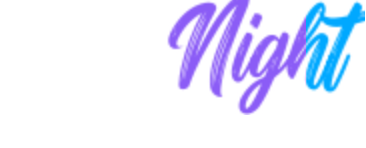
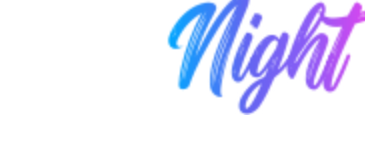
fix: remove hero overlays, center wordmark, neon Night gradient, Buy/Rent buttons+hero
1. Blog/About/Contact heroes: removed the bg-foreground/80 overlay that
   caused white bleed. Now uses solid bg-foreground + hero-cars.png at
   opacity-20 (was opacity-30). Clean dark background, no white overlay.
2. Wordmark: increased translate-y from 3px to 4px to move the logo
   slightly down so it's vertically centered in the navbar.
3. Wordmark 'Night': regenerated both PNGs to use the EXACT neon button
   gradient (linear-gradient(135deg, #00A8FF 0%, #6366F1 40%, #8B5CF6 70%,
   #D946EF 100%)) — same gradient as the Browse Cars button. Column-based
   interpolation across 'Night' so blue is on the left ('nig') and magenta
   on the right ('ht').
4. 'Buy a car' / 'Rent a car' buttons in Two marketplaces section: replaced
   btn-neon class (which only targets shadcn Buttons) with inline
   backgroundImage style so the neon gradient actually renders on <span>
   elements.
5. Buy + Rent pages: removed the breadcrumb (Home > Buy / Home > Rent).
   Redesigned both heroes to match the Plans page style: centered, with a
   badge (Buy/Rent icon), H1 with gradient-text accent, and subtitle.
   Clean from-primary/5 to-transparent gradient background.

Changed region(s): [[0.4508, 0.0, 0.7514, 0.7838], [0.8115, 0.0, 1.0, 0.6216]]

diff --git a/src/app/cars-for-rent/page.tsx b/src/app/cars-for-rent/page.tsx
@@ -109,37 +109,18 @@ export default async function CarsForRentPage({ searchParams }: PageProps) {
 
   return (
     <div className="flex flex-col">
-      {/* Hero header */}
-      <section className="border-b bg-gradient-to-b from-primary/5 to-background">
-        <div className="mx-auto max-w-7xl px-4 sm:px-6 lg:px-8 py-8 sm:py-10">
-          <Breadcrumb>
-            <BreadcrumbList>
-              <BreadcrumbItem>
-                <BreadcrumbLink asChild>
-                  <Link href="/">Home</Link>
-                </BreadcrumbLink>
-              </BreadcrumbItem>
-              <BreadcrumbSeparator />
-              <BreadcrumbItem>
-                <BreadcrumbPage>Rent</BreadcrumbPage>
-              </BreadcrumbItem>
-            </BreadcrumbList>
-          </Breadcrumb>
-
-          <h1 className="mt-3 text-3xl sm:text-4xl lg:text-5xl font-bold tracking-tight">
-            Rent your dream car for special events
+      {/* Hero — centered, matching the Plans page style */}
+      <section className="bg-gradient-to-b from-primary/5 to-transparent border-b border-border">
+        <div className="mx-auto max-w-6xl px-4 sm:px-6 lg:px-8 py-12 sm:py-16 text-center">
+          <Badge variant="outline" className="bg-primary/10 text-primary border-primary/20 mb-4">
+            <KeyRound className="h-3 w-3 mr-1" /> Rent
+          </Badge>
+          <h1 className="text-3xl sm:text-5xl font-bold tracking-tight">
+            Rent your <span className="gradient-text">dream car</span> for special events
           </h1>
-          <p className="mt-3 text-muted-foreground max-w-2xl text-sm sm:text-base">
+          <p className="mt-3 text-base sm:text-lg text-muted-foreground max-w-2xl mx-auto">
             Weddings, photoshoots, weekends, and more — filter by country, daily price, make, and availability.
           </p>
-          <div className="mt-4 flex flex-wrap items-center gap-4 text-xs sm:text-sm text-muted-foreground">
-            <span className="inline-flex items-center gap-1.5">
-              <CalendarHeart className="h-4 w-4 text-primary" /> Daily / weekly / monthly
-            </span>
-            <span className="inline-flex items-center gap-1.5">
-              <Camera className="h-4 w-4 text-primary" /> Perfect for photoshoots & events
-            </span>
-          </div>
         </div>
       </section>
 

diff --git a/src/app/cars-for-sale/page.tsx b/src/app/cars-for-sale/page.tsx
@@ -109,28 +109,17 @@ export default async function CarsForSalePage({ searchParams }: PageProps) {
 
   return (
     <div className="flex flex-col">
-      {/* Hero header */}
-      <section className="border-b bg-gradient-to-b from-primary/5 to-background">
-        <div className="mx-auto max-w-7xl px-4 sm:px-6 lg:px-8 py-8 sm:py-10">
-          <Breadcrumb>
-            <BreadcrumbList>
-              <BreadcrumbItem>
-                <BreadcrumbLink asChild>
-                  <Link href="/">Home</Link>
-                </BreadcrumbLink>
-              </BreadcrumbItem>
-              <BreadcrumbSeparator />
-              <BreadcrumbItem>
-                <BreadcrumbPage>Buy</BreadcrumbPage>
-              </BreadcrumbItem>
-            </BreadcrumbList>
-          </Breadcrumb>
-
-          <h1 className="mt-3 text-3xl sm:text-4xl lg:text-5xl font-bold tracking-tight">
-            Find the perfect car to buy
+      {/* Hero — centered, matching the Plans page style */}
+      <section className="bg-gradient-to-b from-primary/5 to-transparent border-b border-border">
+        <div className="mx-auto max-w-6xl px-4 sm:px-6 lg:px-8 py-12 sm:py-16 text-center">
+          <Badge variant="outline" className="bg-primary/10 text-primary border-primary/20 mb-4">
+            <Car className="h-3 w-3 mr-1" /> Buy
+          </Badge>
+          <h1 className="text-3xl sm:text-5xl font-bold tracking-tight">
+            Find the <span className="gradient-text">perfect car to buy</span>
           </h1>
-          <p className="mt-3 text-muted-foreground max-w-2xl text-sm sm:text-base">
-            Filter by country, price, make and more — browse verified cars for sale worldwide.
+          <p className="mt-3 text-base sm:text-lg text-muted-foreground max-w-2xl mx-auto">
+            Filter by country, price, make, year, fuel, and more — browse verified cars for sale worldwide.
           </p>
         </div>
       </section>

diff --git a/src/app/page.tsx b/src/app/page.tsx
@@ -137,7 +137,7 @@ export default async function HomePage() {
               <div className="absolute inset-0 flex flex-col justify-end p-6 text-white">
                 <h3 className="text-2xl font-bold">Find the perfect car to buy</h3>
                 <p className="mt-1 text-sm text-white/80 max-w-md">Browse {saleCount.toLocaleString()}+ verified cars for sale worldwide.</p>
-                <span className="mt-3 inline-flex items-center gap-1 text-sm font-medium text-white btn-neon rounded-md px-3 py-1.5 w-fit">
+                <span className="mt-3 inline-flex items-center gap-1 text-sm font-medium text-white rounded-md px-3 py-1.5 w-fit" style={{ backgroundImage: "linear-gradient(135deg, #00A8FF 0%, #6366F1 40%, #8B5CF6 70%, #D946EF 100%)" }}>
                   Buy a car <ArrowRight className="h-3.5 w-3.5" />
                 </span>
               </div>
@@ -150,7 +150,7 @@ export default async function HomePage() {
               <div className="absolute inset-0 flex flex-col justify-end p-6 text-white">
                 <h3 className="text-2xl font-bold">Rent your dream car for special events</h3>
                 <p className="mt-1 text-sm text-white/80 max-w-md">From a Tesla weekend to a Lamborghini for the day — {rentCount.toLocaleString()}+ rentals.</p>
-                <span className="mt-3 inline-flex items-center gap-1 text-sm font-medium text-white btn-neon rounded-md px-3 py-1.5 w-fit">
+                <span className="mt-3 inline-flex items-center gap-1 text-sm font-medium text-white rounded-md px-3 py-1.5 w-fit" style={{ backgroundImage: "linear-gradient(135deg, #00A8FF 0%, #6366F1 40%, #8B5CF6 70%, #D946EF 100%)" }}>
                   Rent a car <ArrowRight className="h-3.5 w-3.5" />
                 </span>
               </div>

diff --git a/src/app/about/page.tsx b/src/app/about/page.tsx
@@ -39,12 +39,11 @@ const TIMELINE = [
 export default function AboutPage() {
   return (
     <div className="flex flex-col">
-      {/* Hero — dark background with the hero cars image, no white bleed */}
+      {/* Hero — solid dark background (no overlay/white bleed) */}
       <section className="relative overflow-hidden bg-foreground">
         <div className="absolute inset-0">
-          <Image src="/hero-cars.png" alt="" fill priority sizes="100vw" className="object-cover opacity-30" />
+          <Image src="/hero-cars.png" alt="" fill priority sizes="100vw" className="object-cover opacity-20" />
         </div>
-        <div className="absolute inset-0 bg-foreground/80" />
         <div className="relative mx-auto max-w-7xl px-4 sm:px-6 lg:px-8 py-16 sm:py-24 text-white">
           <div className="inline-flex items-center gap-2 rounded-full bg-white/10 backdrop-blur-md border border-white/25 px-3.5 py-1.5 text-xs sm:text-sm font-medium">
             <Sparkles className="h-3.5 w-3.5 icon-neon" /> About Cars Night

diff --git a/src/app/blog/page.tsx b/src/app/blog/page.tsx
@@ -99,12 +99,11 @@ export default function BlogPage() {
 
   return (
     <div className="flex flex-col">
-      {/* Header hero — dark background with the hero cars image, no white bleed */}
+      {/* Header hero — solid dark background (no overlay/white bleed) */}
       <section className="relative overflow-hidden bg-foreground">
         <div className="absolute inset-0">
-          <Image src="/hero-cars.png" alt="" fill priority sizes="100vw" className="object-cover opacity-30" />
+          <Image src="/hero-cars.png" alt="" fill priority sizes="100vw" className="object-cover opacity-20" />
         </div>
-        <div className="absolute inset-0 bg-foreground/80" />
         <div className="relative mx-auto max-w-7xl px-4 sm:px-6 lg:px-8 py-16 sm:py-24 text-white">
           <div className="inline-flex items-center gap-2 rounded-full bg-white/10 backdrop-blur-md border border-white/25 px-3.5 py-1.5 text-xs sm:text-sm font-medium">
             <BookOpen className="h-3.5 w-3.5 icon-neon" /> The Cars Night Blog

diff --git a/src/app/contact/contact-form.tsx b/src/app/contact/contact-form.tsx
@@ -41,12 +41,11 @@ export function ContactForm() {
 
   return (
     <div className="flex flex-col">
-      {/* Hero — dark background with the hero cars image, no white bleed */}
+      {/* Hero — solid dark background (no overlay/white bleed) */}
       <section className="relative overflow-hidden bg-foreground">
         <div className="absolute inset-0">
-          <Image src="/hero-cars.png" alt="" fill priority sizes="100vw" className="object-cover opacity-30" />
+          <Image src="/hero-cars.png" alt="" fill priority sizes="100vw" className="object-cover opacity-20" />
         </div>
-        <div className="absolute inset-0 bg-foreground/80" />
         <div className="relative mx-auto max-w-7xl px-4 sm:px-6 lg:px-8 py-16 sm:py-20 text-white">
           <div className="inline-flex items-center gap-2 rounded-full bg-white/10 backdrop-blur-md border border-white/25 px-3.5 py-1.5 text-xs sm:text-sm font-medium">
             <Mail className="h-3.5 w-3.5 icon-neon" /> Contact Cars Night

diff --git a/src/components/brand-mark.tsx b/src/components/brand-mark.tsx
@@ -37,7 +37,7 @@ export function BrandMark({ className = "", size = "md", light = false }: BrandM
           Two variants ensure it reads on both dark and light backgrounds.
           The translate-y-[2px] nudge compensates for the brush script's tall
           ascenders which make the wordmark appear slightly above center. */}
-      <span className={`relative inline-flex ${wordmarkHeight} ${wordmarkWidth} items-center justify-center shrink-0 translate-y-[2px]`}>
+      <span className={`relative inline-flex ${wordmarkHeight} ${wordmarkWidth} items-center justify-center shrink-0 translate-y-[4px]`}>
         <Image
           src={wordmarkSrc}
           alt="Cars Night — luxury car marketplace"
